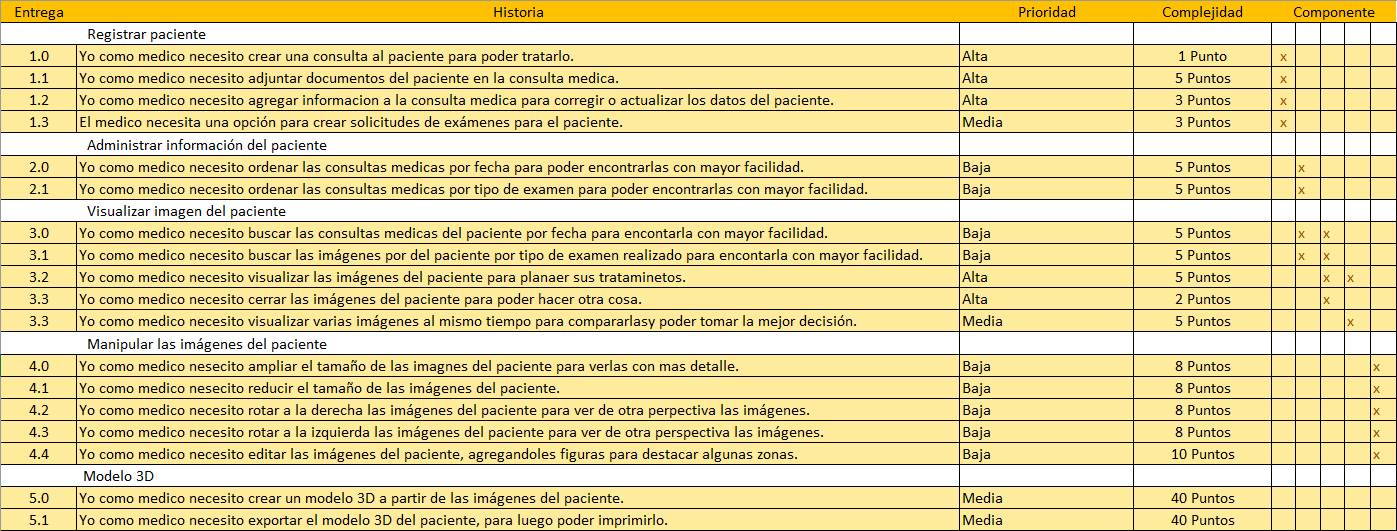
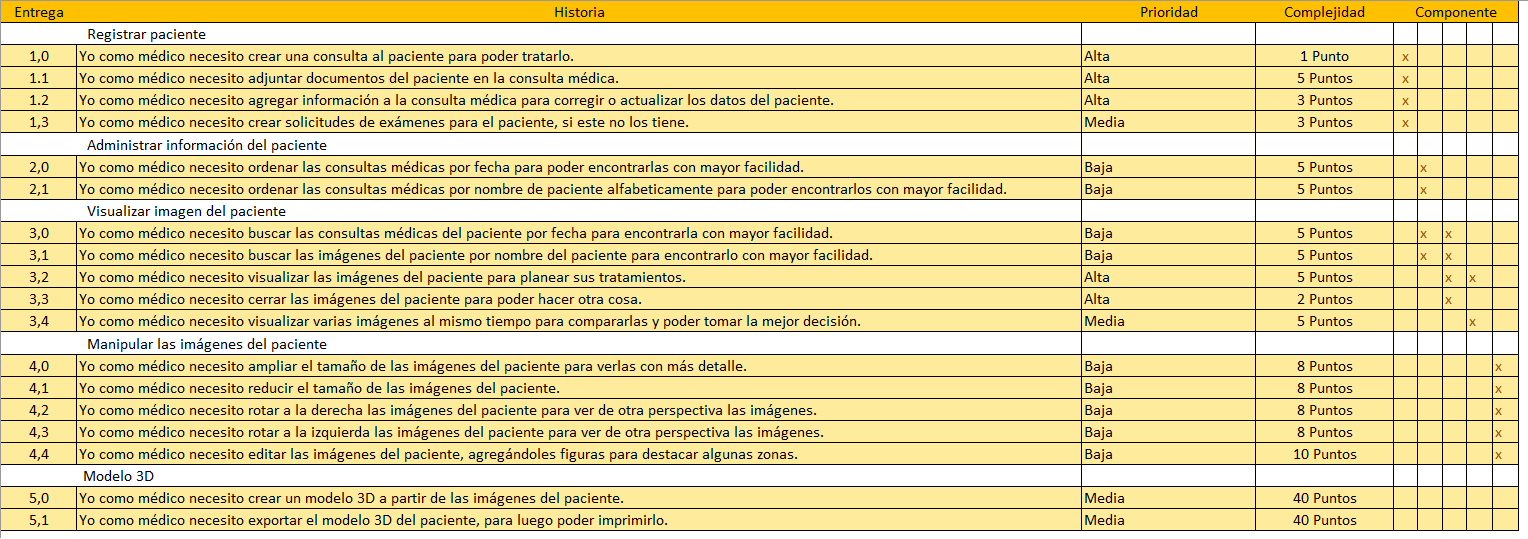
Backlog actualizado

diff --git a/Documentos/Backlog/README.md b/Documentos/Backlog/README.md
@@ -1,9 +1,16 @@
-# Backlog
+# Backlog 📅
 Esta carpeta contiene:
 * Backlog.xlsx (Excel).
 * Imagen del backlog.
-* Imagen del Sprint 1.
+* Imagen del Sprint 1 del primer semestre.
+* Imagen del Sprint 1 del segundo semestre.
+---
+<br>
+<br>
 
-![Backlog](Backlog.png)
-
-![Sprint 1](Sprint_1.png)
+# Backlog
+![Backlog](Backlog.png) 
+# Sprint 1 (Primer semestre). ✅
+![Sprint_1](Pri_semestre_Sprint_1.png)
+# Sprint 1 (Segundo semestre). 🚧
+![Sprint_2](Seg_semestre_Sprint_1.png)
